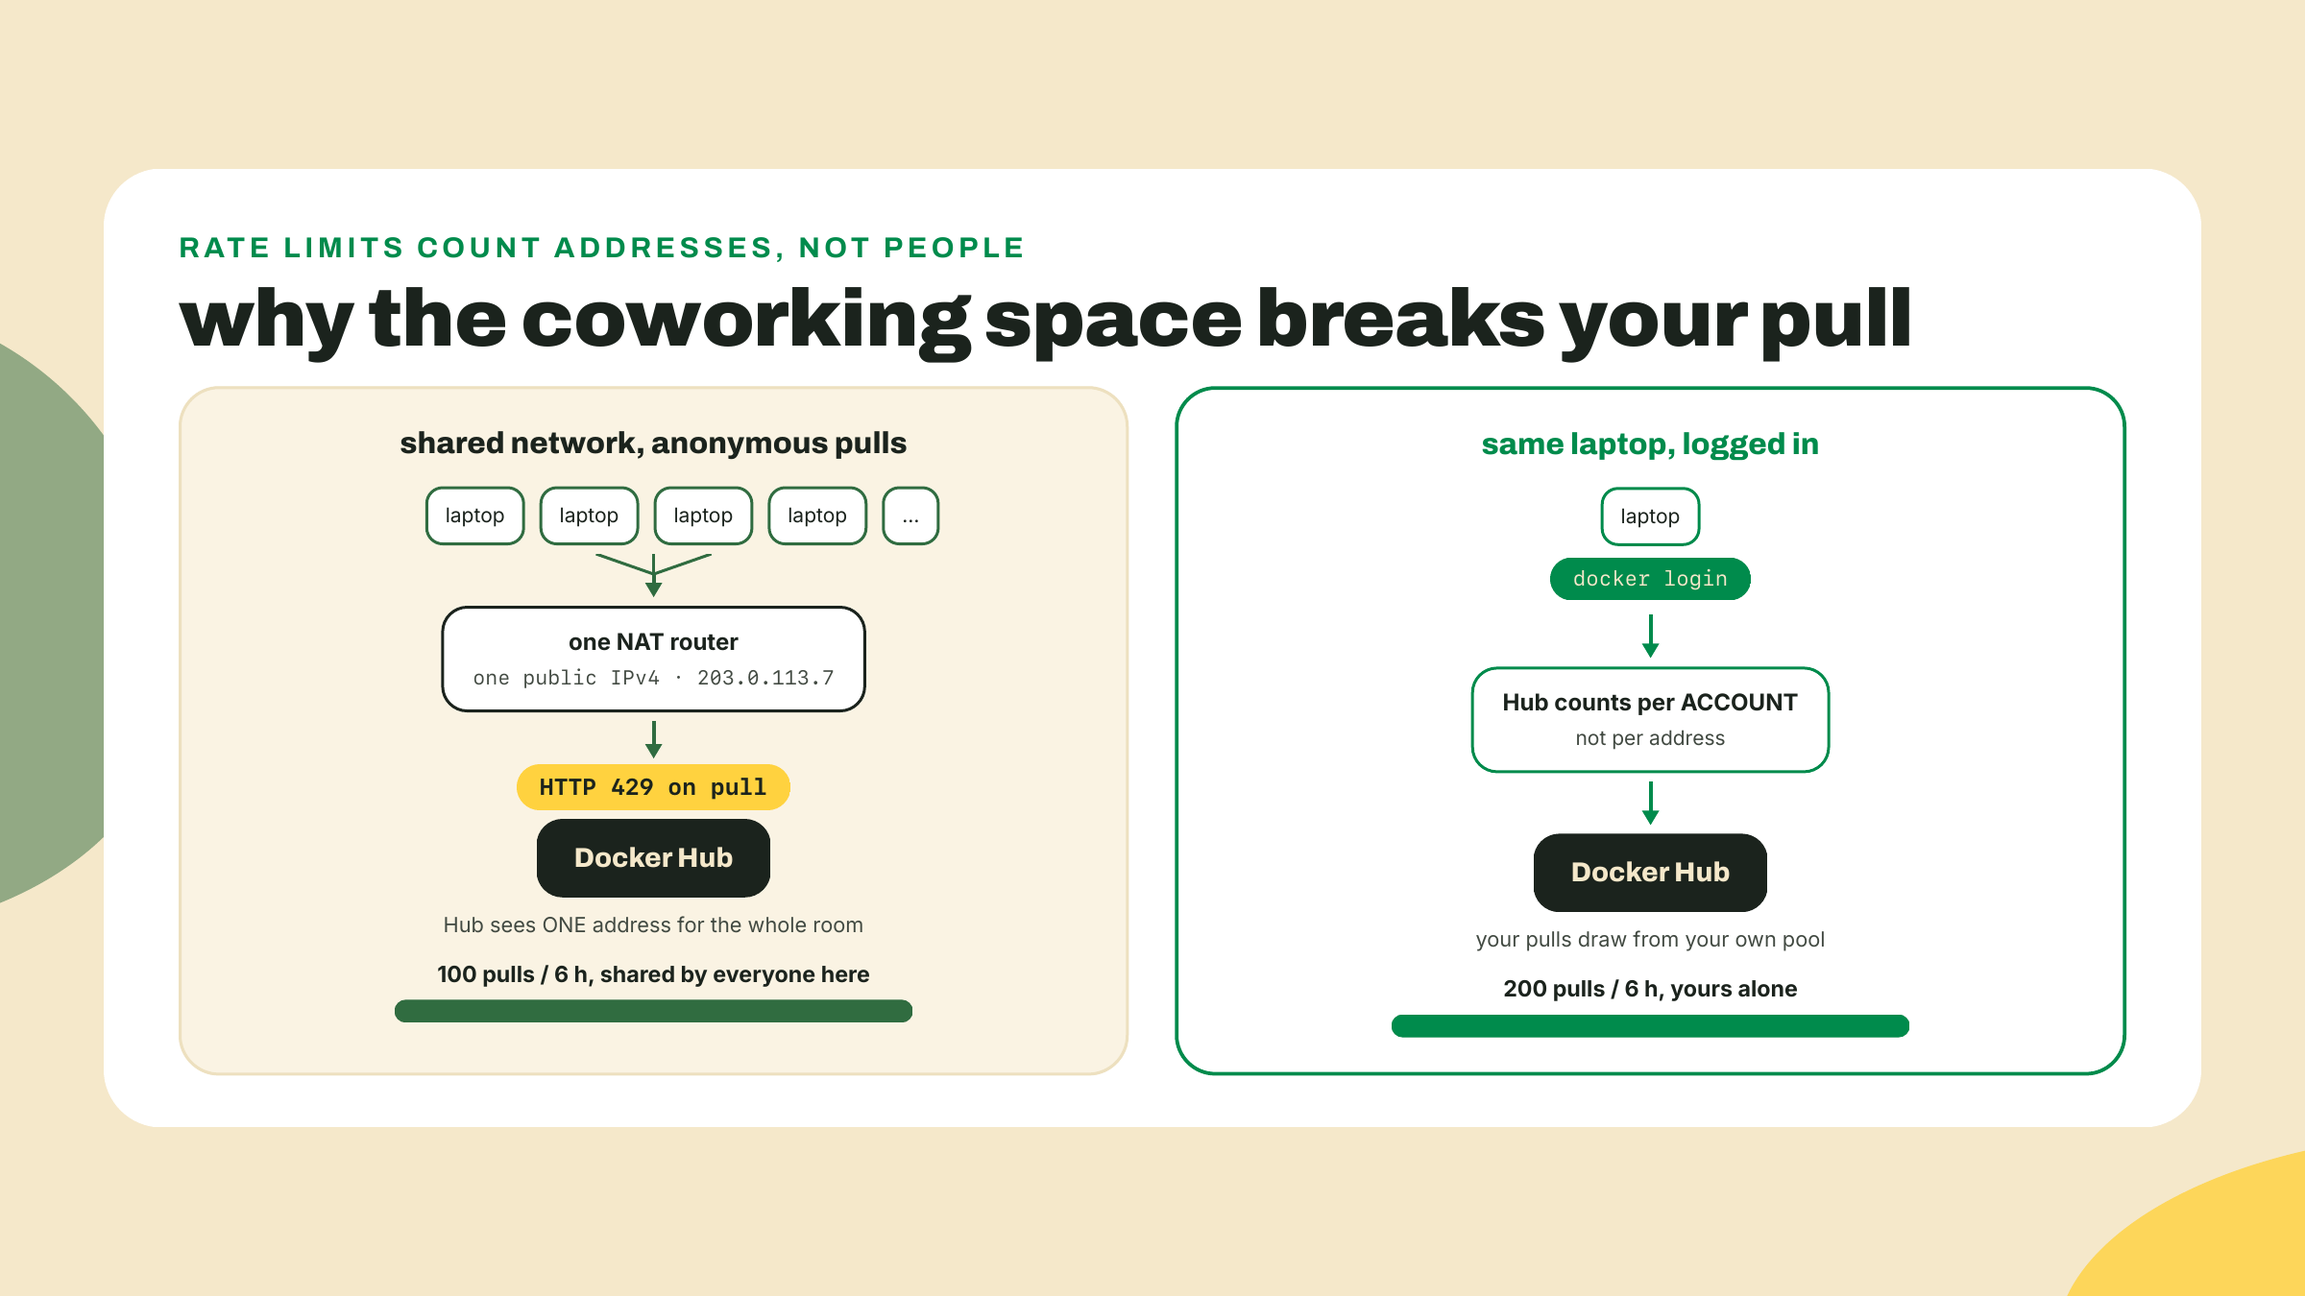
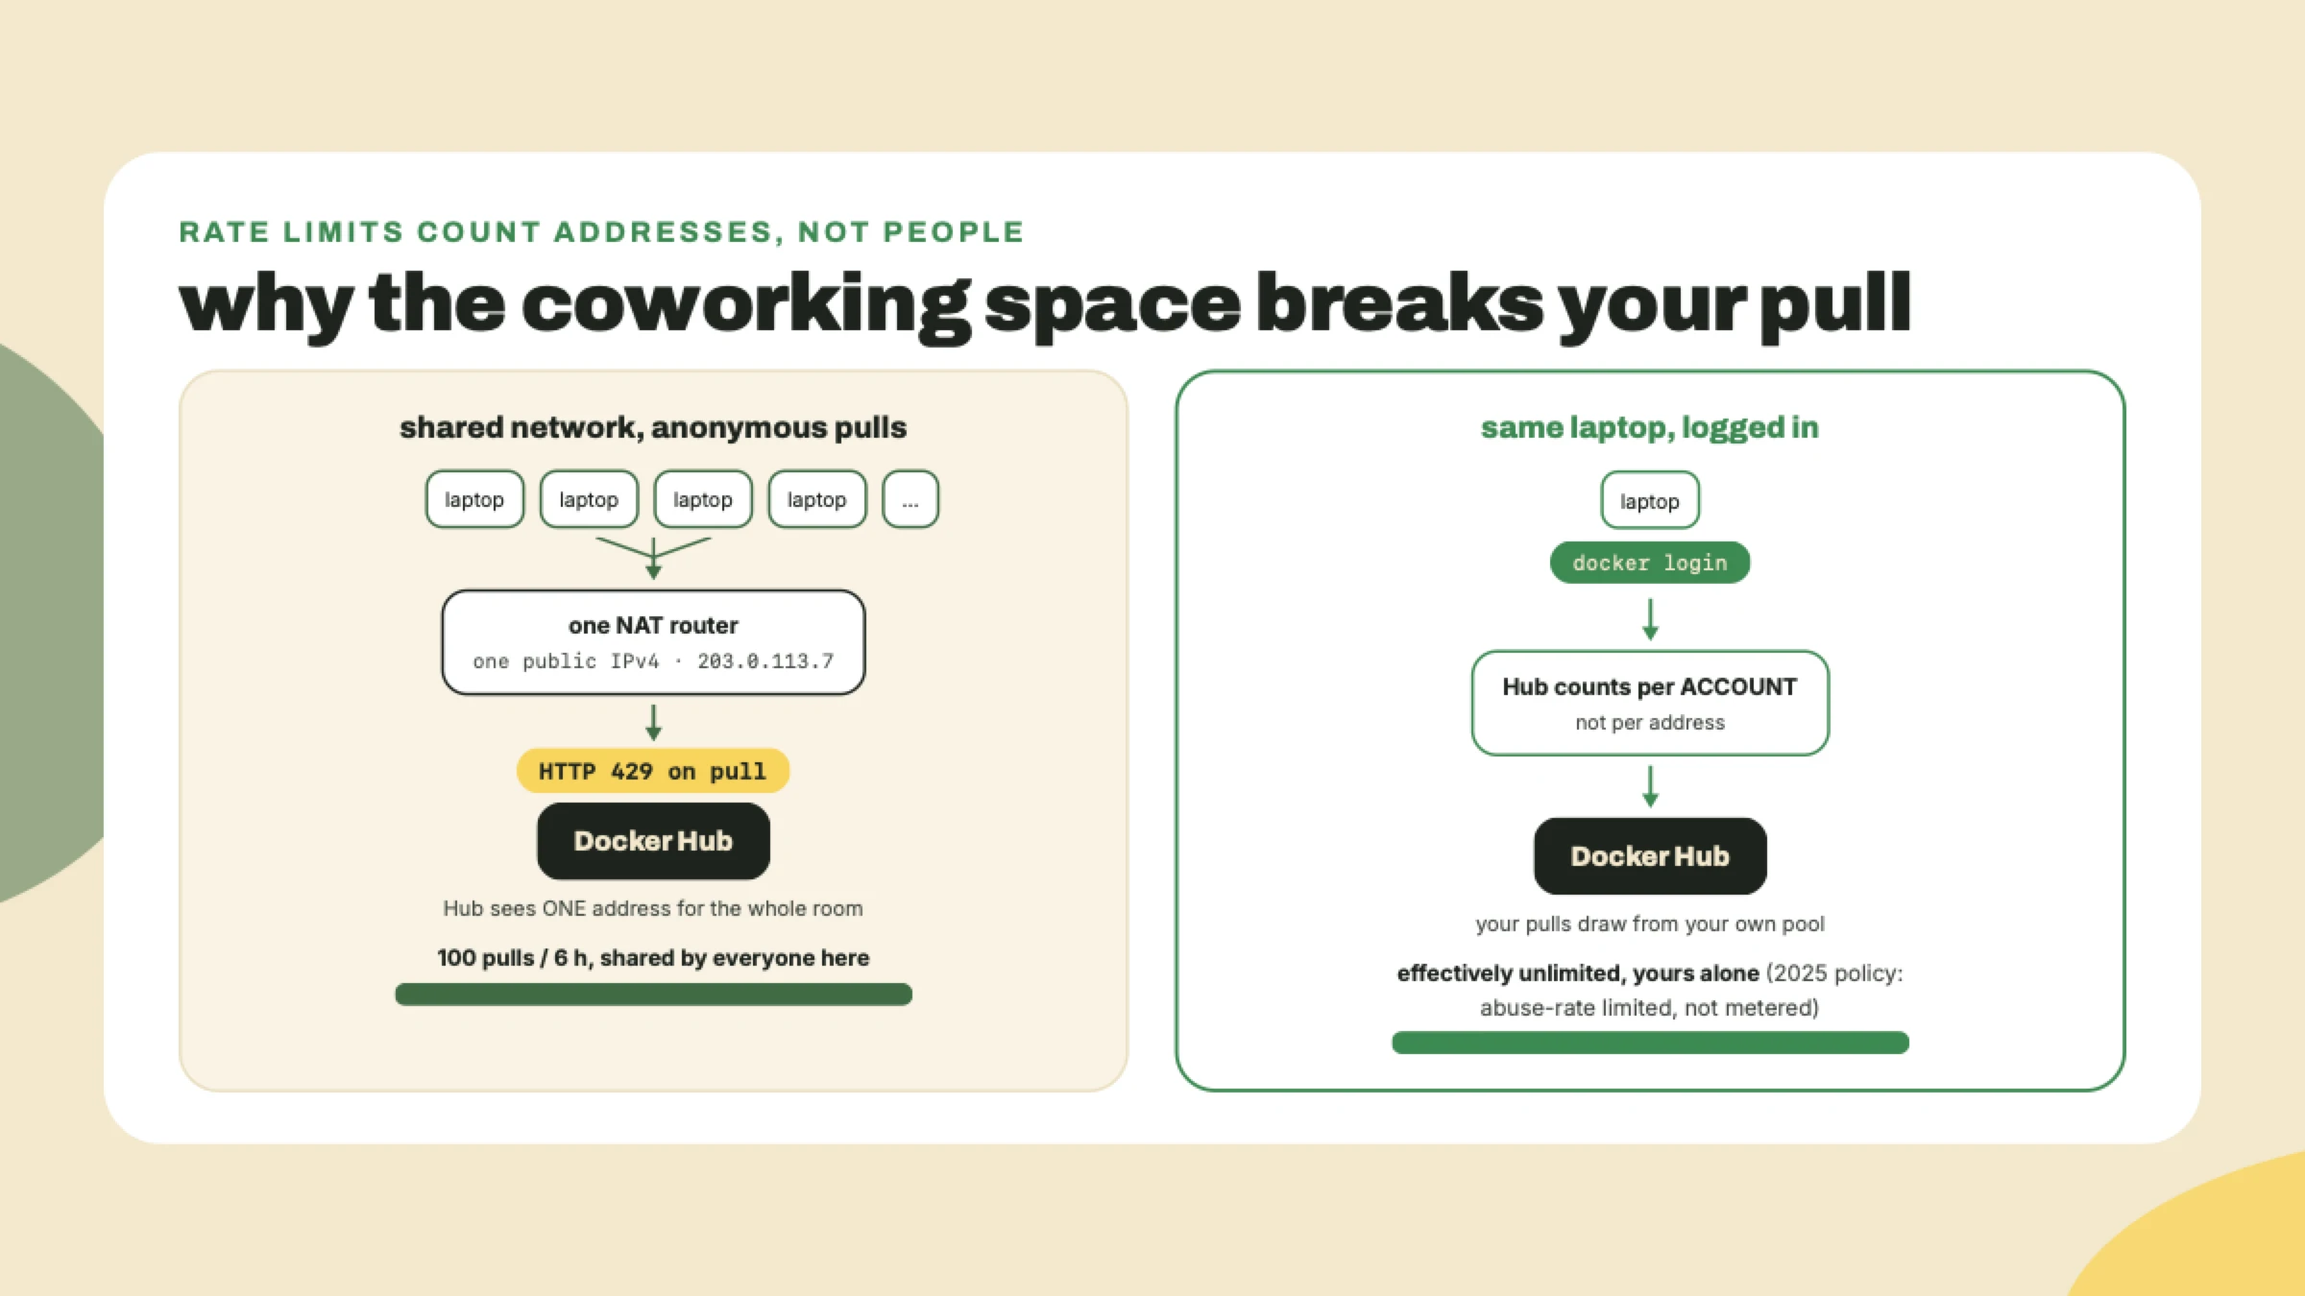
fix(rust-ts): re-render three visuals: last-resort fallback, 2025 Hub policy, 45s slot math
- m08-l4 v02-flowchart: the STOP node now reads 'exit 1, print operator
  instructions' with the local-validator fallback framed as the printed
  last resort (never auto-run), consistent with the lesson's M-12/M-13
  framing; alt text matches.
- m08-l4 v06-timeline (U-4 per delivery-review rec): 45s figure KEPT, now
  annotated '150 slots x 300ms' so it reads as internally consistent with
  the course's post-SIMD-0525 slot-time thesis; alt text matches.
- m06-l2 v04-diagram: authenticated meter updated to Docker's 2025 policy
  (effectively unlimited, abuse-rate limited, not metered); unauthenticated
  100/6h per-IPv4 and the per-IP vs per-account teaching point kept. Prose
  at :88/:98, quiz explanation, and alt text updated to agree.
- All three re-rendered via weasyprint + sips + cwebp at 2400x1350 and
  visually diffed against the shipped assets: deltas confined to the
  edited text; decor blobs stable this pass.

diff --git a/courses/rust-ts-fundamentals/visual-src/m08-l4/v02-flowchart.html b/courses/rust-ts-fundamentals/visual-src/m08-l4/v02-flowchart.html
@@ -12,7 +12,7 @@
 <body>
 <!-- flowchart: The funding decision tree tx-check encodes
      purpose: show that the airdrop is a best-effort dependency with a budget, backed by a rehearsed fallback, never a hot retry loop
-     data: start: balance check -> enough? -> yes: proceed to transfer no -> airdrop attempt 1 -> success: proceed fail -> wait 2s -> attempt 2 -> success: proceed fail -> wait 8s -> attempt 3 -> success: proceed fail -> STOP: print fallback instructions (solana-test-validator + RPC_URL switch), exit 1 annotation on retries: "3 attempts, growing gaps: the m02-l3 discipline. The faucet budget is 2 per 8h; a hot loop burns it in seconds."
+     data: start: balance check -> enough? -> yes: proceed to transfer no -> airdrop attempt 1 -> success: proceed fail -> wait 2s -> attempt 2 -> success: proceed fail -> wait 8s -> attempt 3 -> success: proceed fail -> STOP: exit 1, print operator instructions (last resort if the faucet stays dry: the local-validator fallback + the RPC_URL switch; the script prints it, never runs it) annotation on retries: "3 attempts, growing gaps: the m02-l3 discipline. The faucet budget is 2 per 8h; a hot loop burns it in seconds."
      prompt: Top-to-bottom decision flowchart following the data: balance check, three airdrop attempts with the 2s and 8s waits labeled on the connecting arrows, success edges exiting right to "proceed to transfer", the final failure node ending in the exit-1 fallback box. Put the budget annotation as a callout beside the retry column.
      BUILD .viz as on-brand HTML per skills/content-gen/references/visual-rendering.md.
      Header: <div class="stbr-eyebrow">..</div> + <h2 class="viz-title">..</h2>.
@@ -53,9 +53,9 @@
         <div class="vcon" style="height:36px;"><span class="vlbl">fail &middot; wait 8s</span><div class="vline"></div><div class="vtri"></div></div>
         <div class="node" style="height:58px;"><h4>airdrop: attempt 3</h4></div>
         <div class="vcon" style="height:36px;"><span class="vlbl">fail</span><div class="vline"></div><div class="vtri"></div></div>
-        <div class="node" style="height:96px; background:var(--stbr-yellow); border-color:var(--stbr-yellow);">
-          <h4>STOP: print fallback instructions</h4>
-          <p style="color:var(--stbr-dark); font-weight:600;">solana-test-validator + the RPC_URL switch &middot; <span class="mono">exit 1</span></p>
+        <div class="node" style="height:118px; background:var(--stbr-yellow); border-color:var(--stbr-yellow);">
+          <h4>STOP: <span class="mono">exit 1</span>, print operator instructions</h4>
+          <p style="color:var(--stbr-dark); font-weight:600;">last resort if the faucet stays dry: the local-validator fallback + the RPC_URL switch, printed for the operator, never auto-run</p>
         </div>
       </div>
       <div style="width:160px; flex:none; display:flex; flex-direction:column;">

diff --git a/courses/rust-ts-fundamentals/visual-src/m06-l2/v04-diagram.html b/courses/rust-ts-fundamentals/visual-src/m06-l2/v04-diagram.html
@@ -12,8 +12,8 @@
 <body>
 <!-- diagram: Why the coworking space breaks your pull
      purpose: make the shared-IP rate limit visible so a 429 at a shared network reads as expected, not mysterious
-     data: Left: coworking space with many laptops -> one NAT router -> one public IPv4 -> Docker Hub sees ONE address -> shared pool: 100 unauthenticated pulls per 6 hours Right: same laptop, logged in via docker login -> Hub counts per ACCOUNT -> own pool: 200 pulls per 6 hours Failure symptom: HTTP 429 on pull
-     prompt: Two-panel diagram. Panel 1: several laptops funneling through one router labeled with a single IPv4 address into Docker Hub, with a meter labeled "100 pulls / 6 h, shared". Panel 2: one laptop with a user badge going to Docker Hub, meter labeled "200 pulls / 6 h, yours". Caption the left panel's arrow with "429".
+     data: Left: coworking space with many laptops -> one NAT router -> one public IPv4 -> Docker Hub sees ONE address -> shared pool: 100 unauthenticated pulls per 6 hours Right: same laptop, logged in via docker login -> Hub counts per ACCOUNT -> own pool: effectively unlimited under Docker's 2025 policy (abuse-rate limited, not metered) Failure symptom: HTTP 429 on pull
+     prompt: Two-panel diagram. Panel 1: several laptops funneling through one router labeled with a single IPv4 address into Docker Hub, with a meter labeled "100 pulls / 6 h, shared". Panel 2: one laptop with a user badge going to Docker Hub, meter labeled "effectively unlimited, yours". Caption the left panel's arrow with "429".
      BUILD .viz as on-brand HTML per skills/content-gen/references/visual-rendering.md.
      Header: <div class="stbr-eyebrow">..</div> + <h2 class="viz-title">..</h2>.
      Leave the .stbr-decor block untouched (per-asset brand decoration).
@@ -76,7 +76,7 @@
         <div class="v04-hub">Docker Hub</div>
         <div style="font-family:var(--font-body);font-size:14.5px;color:var(--text-secondary);margin-top:8px;">your pulls draw from your own pool</div>
         <div class="v04-meter">
-          <div class="v04-mlab">200 pulls / 6 h, yours alone</div>
+          <div class="v04-mlab">effectively unlimited, yours alone <span style="font-weight:400;color:var(--text-secondary);">(2025 policy: abuse-rate limited, not metered)</span></div>
           <div class="v04-mbar"><div style="width:100%;background:var(--stbr-emerald);"></div></div>
         </div>
       </div>

diff --git a/courses/rust-ts-fundamentals/visual-src/m08-l4/v06-timeline.html b/courses/rust-ts-fundamentals/visual-src/m08-l4/v06-timeline.html
@@ -12,7 +12,7 @@
 <body>
 <!-- timeline: The blockhash lifetime window
      purpose: make the roughly one minute expiry concrete so build-then-wait-then-send is understood as guaranteed failure
-     data: t=0s: rpc.getLatestBlockhash() fetched t=0-2s: message built, signed, sent (the happy path, well inside the window) t=~60s: blockhash no longer recent; network rejects the transaction t=120s: the build-at-startup-send-later script from the footgun arrives here: dead on arrival, every time annotation: "expiry is a feature: dead transactions stay dead instead of landing hours later"
+     data: t=0s: rpc.getLatestBlockhash() fetched t=0-2s: message built, signed, sent (the happy path, well inside the window) t=~45s: blockhash no longer recent (150 slots x the course's taught 300ms slot time); network rejects the transaction t=120s: the build-at-startup-send-later script from the footgun arrives here: dead on arrival, every time annotation: "expiry is a feature: dead transactions stay dead instead of landing hours later"
      prompt: Horizontal timeline from t=0 to t=120s with the four events from the data placed as markers. Shade the region up to roughly 60s as the valid window and the region after it as expired; the happy-path send sits inside the window, the delayed send clearly outside. The feature annotation goes under the expired region.
      BUILD .viz as on-brand HTML per skills/content-gen/references/visual-rendering.md.
      Header: <div class="stbr-eyebrow">..</div> + <h2 class="viz-title">..</h2>.
@@ -59,7 +59,7 @@
       </div>
       <div class="tick" style="left:8px; top:52px; height:82px;"></div>
       <div class="evt" style="left:calc(37.5% - 160px); top:0; width:320px; text-align:center;">
-        <h5>t &asymp; 45s</h5>
+        <h5>t &asymp; 45s &middot; 150 slots &times; 300ms</h5>
         <p>blockhash no longer recent; the network rejects the transaction</p>
       </div>
       <div class="tick" style="left:calc(37.5% - 1px); top:52px; height:82px; background:var(--stbr-dark);"></div>

diff --git a/courses/rust-ts-fundamentals/lessons/m06-l2/intro.md b/courses/rust-ts-fundamentals/lessons/m06-l2/intro.md
@@ -85,9 +85,9 @@ One honesty footnote before someone on a Mac catches me: on macOS and Windows, L
 
 The lab below pulls the `rust` base image from Docker Hub, and I want you to log in first, because the failure you avoid is genuinely nasty to diagnose. Scenario: you are at a coworking space, a campus, or inside a CI runner. Your build dies pulling a base image with a 429 error. At home, the identical build works. Nothing in the error mentions why.
 
-What is happening: unauthenticated Docker Hub pulls are capped at 100 pulls per 6 hours *per IPv4 address*, and behind a shared NAT, everyone in the building is spending the same allowance. You did nothing; the fifty laptops around you did. A free Docker Hub account moves you to your own allowance of 200 pulls per 6 hours, attached to your account instead of the building's IP. The CI variant of this failure is the one that bites teams: hosted runners share their cloud provider's egress addresses with thousands of strangers, so an anonymous pull that worked all sprint starts flaking the week something popular ships. Same cause, same fix, and now you can diagnose it from the symptom pattern alone: location-dependent, reproducible, and 429 rather than not-found.
+What is happening: unauthenticated Docker Hub pulls are capped at 100 pulls per 6 hours *per IPv4 address*, and behind a shared NAT, everyone in the building is spending the same allowance. You did nothing; the fifty laptops around you did. A free Docker Hub account moves the counting to your account instead of the building's IP, and under Docker's 2025 policy an authenticated Personal account's pulls are effectively unlimited, abuse-rate limited rather than metered. The CI variant of this failure is the one that bites teams: hosted runners share their cloud provider's egress addresses with thousands of strangers, so an anonymous pull that worked all sprint starts flaking the week something popular ships. Same cause, same fix, and now you can diagnose it from the symptom pattern alone: location-dependent, reproducible, and 429 rather than not-found.
 
-![Many laptops behind one shared IP exhaust a common pull allowance of one hundred per six hours, while a logged-in user gets their own two hundred.](assets/v04-diagram.webp)
+![Many laptops behind one shared IP exhaust a common pull allowance of one hundred per six hours, while a logged-in user's own pool is effectively unlimited under the 2025 policy.](assets/v04-diagram.webp)
 
 So: create the free account at hub.docker.com, then:
 
@@ -95,7 +95,7 @@ So: create the free account at hub.docker.com, then:
 docker login
 ```
 
-Enter the username and the token or password it asks for; `Login Succeeded` is your checkpoint. (The free Personal plan also carries one private image repository, which is more hosting than this course will ask of it.) That is the whole fix. When even 200 per 6 hours is not enough, or you want your own images hosted next to your code, GitHub's registry GHCR is the escape hatch, and it is exactly where we push the poller's image in m06-l4. Not today.
+Enter the username and the token or password it asks for; `Login Succeeded` is your checkpoint. (The free Personal plan also carries one private image repository, which is more hosting than this course will ask of it.) That is the whole fix. When you want your own images hosted next to your code rather than on Docker's registry, GitHub's registry GHCR is the escape hatch, and it is exactly where we push the poller's image in m06-l4. Not today.
 
 I will confess where my own hours have gone in this territory, because it was not the rate limit. It was running a container, curling `localhost:8080`, getting nothing, and concluding my app was broken. The app was fine. I had forgotten the port mapping, so my request never entered the box at all. You will wire that mapping deliberately in the lab, and when we get there you will see why the inside and the outside of a container are different networks.
 

diff --git a/courses/rust-ts-fundamentals/lessons/m08-l4/intro.md b/courses/rust-ts-fundamentals/lessons/m08-l4/intro.md
@@ -42,7 +42,7 @@ And here is the part most tutorials hide: the airdrop fails in multiple ways, an
 
 My favorite detail from the research sweep, and your first color of the day: faucet.solana.com carries explicit instructions for AI agents, steering them toward a proof-of-work faucet or a local validator instead. Probed live on 2026-09-01. The rate limit has a welcome mat for the machines it is limiting. Take the hint the faucet itself is giving: the fallback is not an apology, it is the documented path.
 
-![A flow where a balance check leads to at most three spaced airdrop attempts before stopping with local validator fallback instructions.](assets/v02-flowchart.webp)
+![A flow where a balance check leads to at most three spaced airdrop attempts before exiting nonzero with printed last-resort local-validator fallback instructions.](assets/v02-flowchart.webp)
 
 Programmatically, the ask goes through kit's `airdropFactory`, which wraps the request-and-confirm dance for you. You will wire it into `tx-check` in the lab with exactly the shape in that flowchart: three attempts, growing gaps, then a loud, useful failure. The backoff thinking is the same jittered discipline you hand-rolled for 429s in m02-l3. Faucets are rate-limited HTTP services. Everything you learned about being polite to those applies here unchanged.
 
@@ -127,7 +127,7 @@ const signature = getSignatureFromTransaction(signed);
 
 **Step 3: `setTransactionMessageLifetimeUsingBlockhash(latestBlockhash, m)`.** This is the step with a clock in it. The message gets stamped with a recent blockhash, and the network only accepts the transaction while that blockhash is still recent, a window of 150 blocks, which at the 300ms slot time you measured in m08-l1 is about 45 seconds. (It was a minute back when slots targeted 400ms, which is why you will still meet 'about a minute' in older write-ups.) Why would a network do that to you? Because the alternative is worse: without an expiry, a transaction that failed to land could sit in the void and execute hours later, after you gave up and sent a replacement. The lifetime is why unlanded transactions die cleanly instead of haunting you. The practical rule falls straight out: fetch the blockhash inside the send path, right before you build the message, never at script start. A script that builds its message at startup, does two minutes of other work, then sends, will fail confirmation every single time, and now you know why before it happens to you.
 
-![A timeline showing a transaction signed within seconds landing safely while one sent after two minutes arrives past the roughly 45 second blockhash expiry and dies.](assets/v06-timeline.webp)
+![A timeline showing a transaction signed within seconds landing safely while one sent after two minutes arrives past the roughly 45 second blockhash expiry, 150 slots at 300ms each, and dies.](assets/v06-timeline.webp)
 
 **Step 4: `appendTransactionMessageInstruction(getTransferSolInstruction({...}), m)`.** An instruction is one unit of work for one program; a transaction message carries a list of them. Ours carries exactly one: a system-program SOL transfer, built by `getTransferSolInstruction` from `@solana-program/system` with a source signer, a destination address, and an amount. The `lamports()` helper brands the amount with the right type; a lamport, from m08-l1, is the base unit, one billionth of a SOL, and amounts are bigints because u64 does not fit in a JavaScript number.
 
